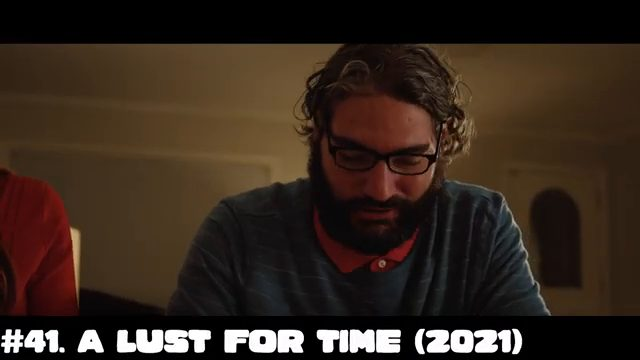
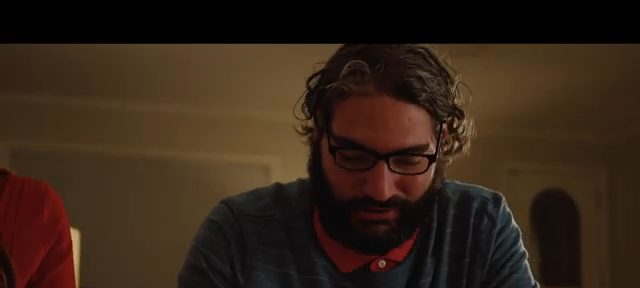
Add click-to-expand film synopses; crop baked captions off stills
Loglines sourced from filmmakers' YouTube descriptions and public listings.

diff --git a/index.html b/index.html
@@ -315,6 +315,44 @@
     color: var(--text-dim);
     border: 1px solid var(--border);
   }
+  .film-card.expandable { cursor: pointer; }
+  .film-desc {
+    max-height: 0;
+    overflow: hidden;
+    opacity: 0;
+    transition: max-height .45s ease, opacity .35s ease, margin-top .45s ease;
+    margin-top: 0;
+  }
+  .film-card.open .film-desc {
+    max-height: 320px;
+    opacity: 1;
+    margin-top: 16px;
+  }
+  .film-desc p {
+    color: var(--text-dim);
+    font-size: .95rem;
+    line-height: 1.6;
+    padding-top: 14px;
+    border-top: 1px solid var(--border);
+  }
+  .film-more {
+    display: inline-flex;
+    align-items: center;
+    gap: 7px;
+    margin-top: 14px;
+    padding: 0;
+    background: none;
+    border: none;
+    color: var(--accent);
+    font: inherit;
+    font-size: 12px;
+    font-weight: 700;
+    letter-spacing: 1.5px;
+    text-transform: uppercase;
+    cursor: pointer;
+  }
+  .film-more .caret { transition: transform .35s ease; font-size: 14px; }
+  .film-card.open .film-more .caret { transform: rotate(180deg); }
   .film-tag.prod {
     background: var(--accent);
     color: var(--accent-ink);
@@ -450,32 +488,59 @@
 <script>
   // ---------- Filmography data ----------
   const films = [
-    { year: "2026", title: "Blonde Ambitions", role: "Mr. Revolver", tag: "In Production", prod: true, img: "img/blonde_ambitions.jpg", pos: "50% 35%" },
-    { year: "2025", title: "Love's Long Shadow", role: "Harvey Weebs", tag: "Feature", img: "img/loves_long_shadow.jpg", pos: "45% 35%" },
-    { year: "2024", title: "Pickle Pressure", role: "Harvey Weebs", tag: "Feature", img: "img/pickle_pressure.jpg", pos: "55% 40%" },
-    { year: "2024", title: "Ninja Killface", role: "Mr. Ray Revolver", tag: "Feature", img: "img/ninja_killface.jpg", pos: "35% 35%" },
-    { year: "2022", title: "The Sadder but Wiser Boy", role: "Jay", tag: "Feature", img: "img/sadder_but_wiser_boy.jpg", pos: "78% 40%" },
-    { year: "2021", title: "A Lust for Time", role: "Paul Kirchner", tag: "Feature", img: "img/a_lust_for_time.jpg", pos: "58% 35%" },
-    { year: "2021", title: "Night Dicks: Miami", role: "Pizza Brother Sal / Masked Marauder", tag: "Feature", img: "img/night_dicks_miami.jpg", pos: "45% 40%" },
-    { year: "2017", title: "Shadows in the Snow", role: "Cast", tag: "Thriller Short" },
-    { year: "2015", title: "The Dollars & Donuts Christmas Special", role: "Cast", tag: "Holiday Short" },
-    { year: "2014", title: "The Alibi", role: "Cast", tag: "Crime Short", img: "img/the_alibi.jpg", pos: "60% 35%" },
-    { year: "2012", title: "Oldtimers", role: "Julio", tag: "Film", img: "img/oldtimers.jpg", pos: "50% 30%" },
-    { year: "2012", title: "Dead Right II", role: "Producer", tag: "Producer" },
-    { year: "2011", title: "Dead Right", role: "Producer", tag: "Producer" },
-    { year: "2009", title: "Dollars to Donuts", role: "Cast", tag: "Comedy Short" }
+    { year: "2026", title: "Blonde Ambitions", role: "Mr. Revolver", tag: "In Production", prod: true, img: "img/blonde_ambitions.jpg", pos: "50% 35%",
+      desc: "A hardboiled neo-noir. A simple business deal becomes a slow-burning game of power, seduction and control when Mr. Revolver walks into a strip club expecting respect — and gets something else entirely. Some deals aren't meant to be made." },
+    { year: "2025", title: "Love's Long Shadow", role: "Harvey Weebs", tag: "Feature", img: "img/loves_long_shadow.jpg", pos: "45% 35%",
+      desc: "A neo-noir thriller set against a rainy Golden Gate tragedy and the unforgiving Texas sun. Frank Barnett fights to save his engagement from a lethal obsession — can you ever truly know the person you're about to marry? Ray plays Harvey Weebs, Frank's beleaguered accountant." },
+    { year: "2024", title: "Pickle Pressure", role: "Harvey Weebs", tag: "Feature", img: "img/pickle_pressure.jpg", pos: "55% 40%",
+      desc: "Shot in a single morning, this fast-and-loose companion piece drops into the unraveling home life of Harvey Weebs — detective Frank Barnett's perpetually frazzled accountant — barely holding it together between a perverted caller, career-ending paperwork and his own vices." },
+    { year: "2024", title: "Ninja Killface", role: "Mr. Ray Revolver", tag: "Feature", img: "img/ninja_killface.jpg", pos: "35% 35%",
+      desc: "Assassin James C. Franken — 'Ninja Killface' — is working off a debt to ruthless crime boss Mr. Revolver. Tasked with rescuing Revolver's daughter, a mission of loyalty twists into a web of betrayal and hard truths." },
+    { year: "2022", title: "The Sadder but Wiser Boy", role: "Jay", tag: "Feature", img: "img/sadder_but_wiser_boy.jpg", pos: "78% 40%",
+      desc: "A dark comedy about friendship and growing up. Lando and Dallas have spent 20 years locked in a co-dependent friendship of pranks and insults; now in their thirties, Dallas tries to help Lando 'grow up' — with unexpected results." },
+    { year: "2021", title: "A Lust for Time", role: "Paul Kirchner", tag: "Feature", img: "img/a_lust_for_time.jpg", pos: "58% 35%",
+      desc: "A Dollars & Donuts sci-fi short built around a time machine and the A.I. that runs it, with Ray in a leading turn as Paul Kirchner." },
+    { year: "2021", title: "Night Dicks: Miami", role: "Pizza Brother Sal / Masked Marauder", tag: "Feature", img: "img/night_dicks_miami.jpg", pos: "45% 40%",
+      desc: "A multiverse-hopping action-adventure. When Rochester Black and Slade McKlosky come up against the villainous Dr. Bitch, they're sent careening across realities to witness her destruction first-hand." },
+    { year: "2017", title: "Shadows in the Snow", role: "Cast", tag: "Thriller Short",
+      desc: "A crime thriller shot in South Lake Tahoe. After double-crossing and murdering their partner Joey, Ernie and Stokes try to flee the snow-filled mountains in their stolen Cadillac." },
+    { year: "2015", title: "The Dollars & Donuts Christmas Special", role: "Cast", tag: "Holiday Short",
+      desc: "The crew's tongue-in-cheek holiday special — a Dollars & Donuts Christmas send-up." },
+    { year: "2014", title: "The Alibi", role: "Cast", tag: "Crime Short", img: "img/the_alibi.jpg", pos: "60% 35%",
+      desc: "A 21-minute crime short from Dollars & Donuts, directed by Daryl Della." },
+    { year: "2012", title: "Oldtimers", role: "Julio", tag: "Film", img: "img/oldtimers.jpg", pos: "50% 30%",
+      desc: "A western-tinged revenge-action comedy. When selling his prescription meds goes sideways, an 85-year-old man fed up with the world enlists his friends to teach a couple of punks a lesson. Ray delivers a powerhouse turn as thug leader Julio." },
+    { year: "2012", title: "Dead Right II", role: "Producer", tag: "Producer",
+      desc: "A horror short. Handcuffed to a gurney and left in a desolate room, there's no easy escape for Deke — he's going to be dying a very long time. Ray produced." },
+    { year: "2011", title: "Dead Right", role: "Producer", tag: "Producer",
+      desc: "A crime short — brutal, ruthless, deadly; he's flawed that way. Ray produced." },
+    { year: "2009", title: "Dollars to Donuts", role: "Cast", tag: "Comedy Short",
+      desc: "An early Dollars & Donuts comedy short: Buddy and Mitch cook up a plan to get the ladies." }
   ];
 
   const grid = document.getElementById("filmGrid");
   films.forEach(f => {
     const card = document.createElement("article");
-    card.className = "film-card reveal";
+    card.className = "film-card reveal" + (f.desc ? " expandable" : "");
     card.innerHTML =
       (f.img ? '<div class="film-thumb"><img loading="lazy" src="' + f.img + '" alt="Ray Revello in ' + f.title + '" style="object-position:' + (f.pos || '50% 35%') + '"></div>' : '') +
       '<div class="film-year">' + f.year + '</div>' +
       '<div class="film-title">' + f.title + '</div>' +
       '<div class="film-role"><strong>' + f.role + '</strong></div>' +
-      '<span class="film-tag' + (f.prod ? ' prod' : '') + '">' + f.tag + '</span>';
+      '<span class="film-tag' + (f.prod ? ' prod' : '') + '">' + f.tag + '</span>' +
+      (f.desc ? '<div class="film-desc"><p>' + f.desc + '</p></div>' +
+                '<button class="film-more" type="button"><span class="lbl">Synopsis</span><span class="caret">&#9662;</span></button>' : '');
+    if (f.desc) {
+      const toggle = () => {
+        const open = card.classList.toggle("open");
+        card.querySelector(".film-more").setAttribute("aria-expanded", open);
+        card.querySelector(".film-more .lbl").textContent = open ? "Hide" : "Synopsis";
+      };
+      const btn = card.querySelector(".film-more");
+      btn.setAttribute("aria-expanded", "false");
+      btn.addEventListener("click", (e) => { e.stopPropagation(); toggle(); });
+      card.addEventListener("click", toggle);
+    }
     grid.appendChild(card);
   });
 
